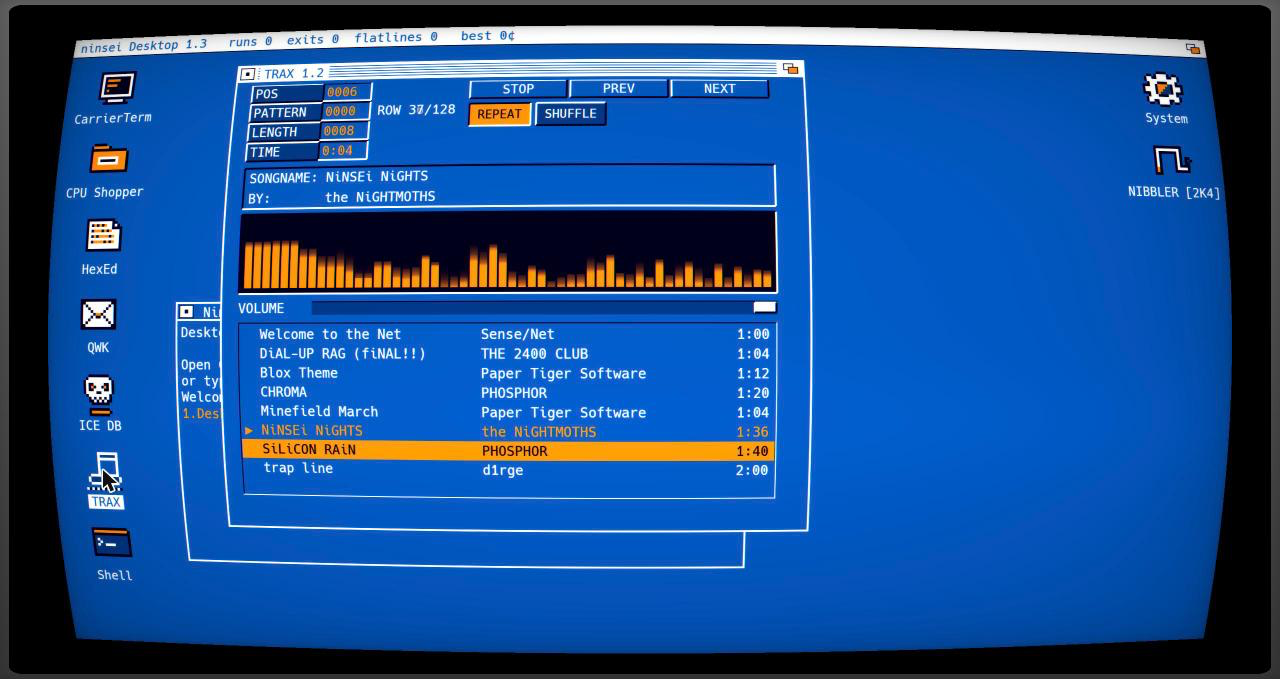
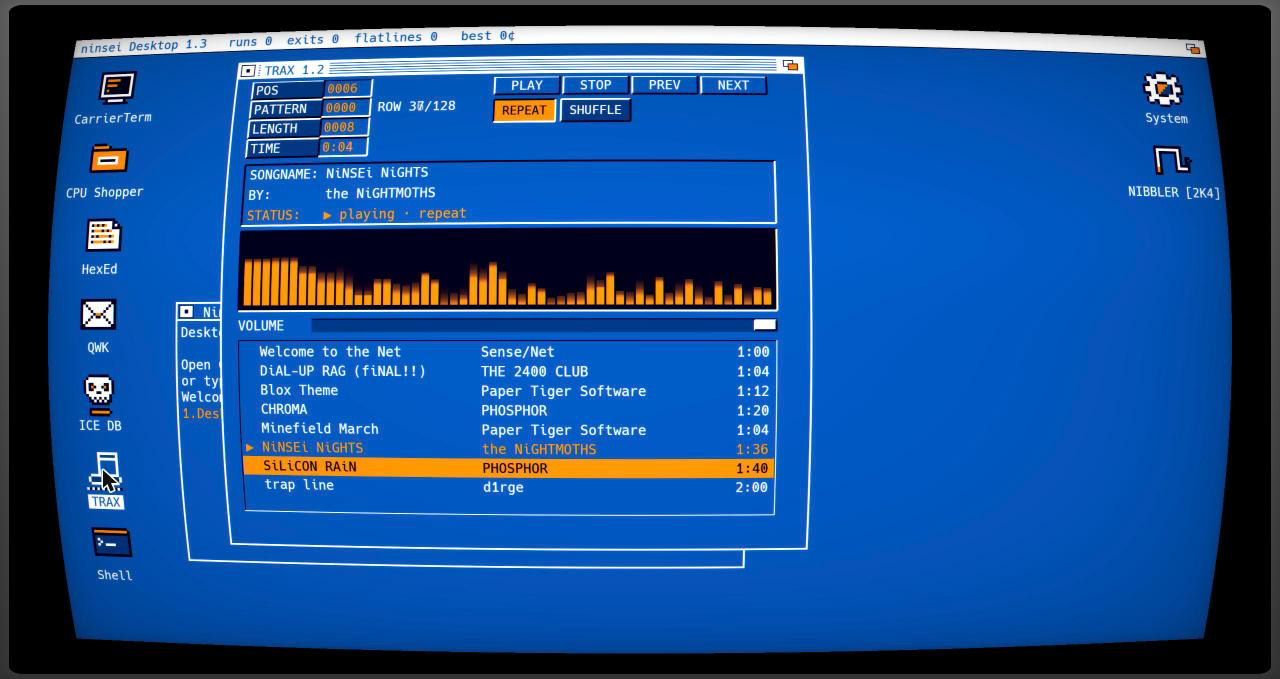
docs: Protracker's screen with STOP and STATUS, shots retaken

Changed region(s): [[0.1562, 0.0619, 0.6562, 0.8351]]

diff --git a/docs/architecture.md b/docs/architecture.md
@@ -62,7 +62,7 @@ Monitors and decks live in `data/hub/hardware.ron` (`HardwareDef::validate`); wh
 - **Games are data, and the save knows which copy you own.** Each game is a row in `data/hub/games.ron` (`data::GameDef`: name, blurb, publisher, version, a `cols`x`rows` field, a `crack` and a `splash` intro, an optional `shop` price, the `engine` it runs (`games::Engine`) and its `tick_ms`). `Data::validate` rejects a field smaller than its engine's `min_size` or past 78x24, a `tick_ms` outside `data::GAME_TICK_MS`, a `crack` that isn't a crack or a `splash` that isn't a splash, a publisher that isn't a CPU Shopper vendor, a splash whose tagline doesn't name the row's name and version, a board file naming an unknown game, and any `Drop::Game` in loot or an encounter: games only come from a board's files. Owned games are `Save::games`, one `hub::OwnedGame { id, copy }` per game and copy (`hub::GameCopy`): you can own both side by side, and neither erases the other. A `Cracked` copy comes from a board (`Drop::Game(id)`: in a run on `Game::games`, which starts from `Kit::games`, the save's cracks (`Save::cracks`), plus downloads, booked by `Save::record` even on a flatline and reported in `RunReport::games`; at home through `Save::home_buy`); a `Boxed` one by mail order (`shopper::Item::Game` in the Games section, sold by the publisher, `Save::buy_game`). `Save::learn_game` is idempotent per game and copy; `has_copy` and `copies` ask what you have. THE NEON GUTTER's GAMES area posts the three cracks (two a call, rolled like any area), each file named 8.3 with its crew's tag and only on the board its crack advertises (`Data::validate` rejects either mistake); CPU Shopper prints Paper Tiger's Box ad for BLOX 2.0 and a cover line, the other boxes as dot-leader lines. A board won't sell a crack you have (`game::tool_blocker`, which asks the `bbs::Line`: `Line::owns`, `has_crack`) and the shop won't sell a box you have, but each still sells its copy to someone holding the other. Each copy opens with its own intro and has its own label (`Data::game_label`): a box is the plain name (`Nibbler`), a crack the name in capitals with its crew's tag (`NIBBLER [2K4]`), the `tag` on its crack intro. About This Deck lists each copy you own by its label, after the tools. **The games are engines in core** (`crates/core/src/games/`): each is a pure, seeded state machine behind the `games::Arcade` trait (`step(Input, ticks)`, `cells()` row by row, `cursor`, `over`, `won`, `paused`, `score`, `status`), started by `games::new_game(def, seed, round)` from the row's `engine` (the game's id and the round go into the seed, `games::round_seed`, so each round deals a new field and no two games share a stream) (`Nibbler`, `Blox`, `Minefield`). The app only sends `games::Input`s and a count of the game's own `tick_ms` ticks and draw the `games::Cell`s; an engine never reads a clock, and the same seed and inputs always play the same game. Their speeds, points and mine density are in `tuning.rs` (`NIBBLER_*`, `BLOX_*`, `MINEFIELD_*`). Tested in `tests/games.rs`: every game ends, random input never panics or leaves the grid, same seed same game. The probe's bots value a game at nothing, so they never buy one. Tested in `crates/core/tests/games.rs`.
 - **Games open on every desktop.** A copy you own is a tool: `Tool::Game(id, copy)`, one variant for every game and copy, its id carried inline (`hub::GameId`, at most `hub::GAME_ID_MAX` bytes, saved as the plain id) so `Tool` stays `Copy`. Everything a desktop shows for it reads the row: `Tool::name` (the copy's label, `Data::game_label`), `Tool::game_def`, its icon (`icon` in `games.ron`, the 1.3 palette, checked by `IconDef::check_art`), and `Tool::games(data, save)` lists the copies you own in the order you came by them. `Save::icons` is the desktop's icons (`hub::Icon`, borrowing the art: the tools you have, then each copy); `Save::opens` is false for a copy you don't have, so an unowned game has no icon, menu item, launcher entry, tile or Shell word (`shell`'s `run`/`dir` and `shell_complete` read `Save::icons`; `run nibbler` finds a game by its box's name, the label picks the copy). Liza lists the copies in a **Games** menu before Special and as icons; Desktop's `Kind` is `Shell`, `Tool(tool)` or `Requester` (no fallback: a game's window is its own); AnarchyOS's launcher has an entry per copy. Liza's and Desktop's game windows open where `home::game_spot` puts each copy, sized the first time they're drawn (`home::size_game_window`) to the field, or to the intro's 80x24 screen when that's bigger and an intro will play (`home::game_window`). The window (`crates/app/src/games_view.rs`) draws the engine's `cells()` on the kit's `Cells`, a cell two text cells wide (one in a narrow room), in a frame with the game's status wrapped under it (`games_view::status_rows`); every cell reads by its shape (fills, the `p50` pattern, glyphs, inverse) so nothing is told by colour alone. A game lives as long as its window is open: before drawing, the app tells `Home::keep_open` which tools any desktop still has open (`Desktops::is_open`: Liza's and Desktop's windows, AnarchyOS's tiles on the save; hidden, on another workspace, behind another firmware or showing the fit notice is still open), and `Home::play` keeps the copy's window state until it closes: its intro first (the crack's cracktro or the box's splash, unless intros are off; only a key or click while its window has the keyboard skips it, and the game starts the next frame so the skipping key isn't the game's; run to its end, the game starts on that frame; closing the window while it still plays cuts its tune), then one `games_view::Session`, a new round when it opens or Space is pressed once it's over. Each sends `WbOut::GameStarted(id)` so `Save::start_game` bumps `Save::game_rounds`, and `games::new_game` gets the save's key and the round: the save's count or one past the last `Home` dealt, whichever is more, so both copies opened in one frame deal two fields. It ticks whole `tick_ms` ticks on the frames' `stable_dt`; it takes the arrows, Space and P only while its window has the keyboard (`Home::tool_in`'s `keys`: each desktop's front window or focused tile while no menu, leader, launcher or help is up, and never while `Cx::keys` is false, a board called from home owning the keyboard: then AnarchyOS's leader and launcher stand down too, System is `blocked` even under the pointer, and no tool's intro is skipped), stopping text input; a click opens a square and a right click flags it. Losing the keyboard pauses it, and getting it back plays on unless the player paused it. Tested in `games_view.rs`, `liza.rs`, `workbench.rs`, `tiling.rs` and `crates/core/tests/game_tools.rs`.
 - **Cracktros are data.** Each is `data/intros/<id>.ron` (`intro::IntroDef`, found by `build.rs`, checked by `IntroDef::validate`), named by a tool's `intro` or a game's `crack` and `splash`. A crack names its `board` and its `greetz`, and a game's crack its crew's `tag` (at most `intro::TAG_MAX` capitals or digits, one tag per crew); a splash has a `tagline`, greets nobody, carries no tag, and may leave the board out, in which case its screen has no ad row (`IntroDef::is_splash`); core turns time into the screen (`IntroDef::screen`: frames, `Fx` effects, the board's ad, the greetz scroller, timings in `intro::anim`), and `Home::intro_gate` paints it in the desk's colours every time the tool's window opens (a game's window plays its copy's, above), skippable, its type shrunk to the width and the height in view in a room smaller than the screen (`bbs_view::paint_screen_fit`), never cut, honouring `Save::intros` and `Save::glitches` (calm). Its chiptune is an `intro::TuneDef` (tracks of note steps, `TuneDef::render`, synthesized like cues); the speaker plays it on the music channel it shares with the run's tune (`Speaker::tune`), cut when the intro is skipped or its window closes (`Home::tune`, `TuneCue`). The speaker knows which of the two is on, so an intro closing as you jack in can't cut the run's tune, and the run ending can't cut an intro.
-- **Music disks and TRAX.** A tune is `data/music/<id>.ron` (`data::TuneFile`: a `title`, its author `by`, `secs` it plays in a playlist, and a cracktro-format `TuneDef`; found by `build.rs`, `Data::tunes`, `Data::tune`). `Data::validate` refuses a duplicate, a title past `TUNE_TITLE_MAX`, an author who signs no cracktro or splash (`Data::signs`: a group, or a name it joins with ` & `), a loop past `music::MAX_LOOP_SECS`, and a length shorter than one loop or past `TUNE_SECS_MAX`. You own tunes on `Save::tunes`, in playlist order: from a board (`Drop::Tune(id)`, `[MUS]` in a listing; in a run on `Game::tunes`, from `Kit::tunes`, booked by `Save::record` even on a flatline and reported in `RunReport::tunes`; at home through `Save::home_buy`), from a kit (`KitDef::tunes`, applied by `Save::ensure_phonebook`), or by mail (`shopper::Item::Compilation`, a `data::CompilationDef` in `data/hub/compilations.ron`, priced there, in the Games section, owned once all its tunes are; `Save::buy_compilation` adds what you lack and plays nothing). No loot or encounter drops a tune; the boards' music areas are `always`, so they never touch the RNG. The player's rules are core's `player.rs`: `playlist` and `order` (shuffled from the save's key), the saved `PlayerState` (`Save::player`: current, repeat, shuffle), the session's `Transport` (`Home::player`: playing, `at`, and a `cue` bumped on every jump), `apply(Act)` (toggle, play, pause, stop, next, prev, pick, seek in ms, louder and softer on `Save::volume`, repeat, shuffle), `tick` (moves on only while `live`: at home, `player::at_home`, no cracktro on the channel and no new tune still rendering, else the transport is `held` and the status says `‖ waiting`; it covers as many tunes as the time since the last frame does, since a hidden window sends no frames; at the end of the list without repeat it stops; it says whether the save changed), `wanted` (a `Want` at home while playing, nothing in a run) and what a face shows (`rows`, `status`, `volume`, `now`, `KEYS`), all tested in `tests/player.rs`. The tool is `Tool::Player` (`player` in `tools.ron`, **TRAX**, free in the Gutter's WAREZ TOOLS, a NiGHTMOTHS intro): on AnarchyOS `player_view::tile`, three boxes on the kit's cells (the playlist on `kit::List`, a spectrum from `vispane::bars` over `Speaker::listen`, filled into `Home::heard` only while the tile is on screen, and the status box with a seek bar and a clickable legend), its keys only while the tile has the keyboard (stopping text input), `Home::fit` 40x14 cells; the face is picked in one place, `player_view::show`, by the firmware's desktop (there is no plain fallback: each desktop has its own); on Liza `player_view::liza_face`, a fixed System 6 desk accessory (`LIZA_SIZE`, centred in its window) on the Liza kit: the tune and its crew, `kit::liza::hslider` for the position (`Act::Seek`), `push_button`s for the transport, `kit::liza::thermometer` for the level (`Act::Volume`), Repeat and Shuffle `check_box`es, the spectrum as 1-bit bars from the same `vispane::bars`, and the playlist in a `list_box` (a click moves the cursor, a double-click or Enter plays, ↑↓ move the cursor through the face's own keys); on Desktop `player_view::workbench_face`, Protracker 2.3's playback screen (`WB_SIZE`) on the Workbench kit: bevelled number boxes from core's `player::readout` (POS, the tune's place; PATTERN, the loop's pass, with the row beside it; LENGTH; TIME), `kit::workbench::button`s and `toggle_gadget`s, the song name strip, the spectrum analyzer from the same `vispane::bars`, the level on `kit::workbench::hprop`, and the playlist in `kit::workbench::list_box`. Its acts go out as `WbOut::Player` and `App::player_act` applies them.
+- **Music disks and TRAX.** A tune is `data/music/<id>.ron` (`data::TuneFile`: a `title`, its author `by`, `secs` it plays in a playlist, and a cracktro-format `TuneDef`; found by `build.rs`, `Data::tunes`, `Data::tune`). `Data::validate` refuses a duplicate, a title past `TUNE_TITLE_MAX`, an author who signs no cracktro or splash (`Data::signs`: a group, or a name it joins with ` & `), a loop past `music::MAX_LOOP_SECS`, and a length shorter than one loop or past `TUNE_SECS_MAX`. You own tunes on `Save::tunes`, in playlist order: from a board (`Drop::Tune(id)`, `[MUS]` in a listing; in a run on `Game::tunes`, from `Kit::tunes`, booked by `Save::record` even on a flatline and reported in `RunReport::tunes`; at home through `Save::home_buy`), from a kit (`KitDef::tunes`, applied by `Save::ensure_phonebook`), or by mail (`shopper::Item::Compilation`, a `data::CompilationDef` in `data/hub/compilations.ron`, priced there, in the Games section, owned once all its tunes are; `Save::buy_compilation` adds what you lack and plays nothing). No loot or encounter drops a tune; the boards' music areas are `always`, so they never touch the RNG. The player's rules are core's `player.rs`: `playlist` and `order` (shuffled from the save's key), the saved `PlayerState` (`Save::player`: current, repeat, shuffle), the session's `Transport` (`Home::player`: playing, `at`, and a `cue` bumped on every jump), `apply(Act)` (toggle, play, pause, stop, next, prev, pick, seek in ms, louder and softer on `Save::volume`, repeat, shuffle), `tick` (moves on only while `live`: at home, `player::at_home`, no cracktro on the channel and no new tune still rendering, else the transport is `held` and the status says `‖ waiting`; it covers as many tunes as the time since the last frame does, since a hidden window sends no frames; at the end of the list without repeat it stops; it says whether the save changed), `wanted` (a `Want` at home while playing, nothing in a run) and what a face shows (`rows`, `status`, `volume`, `now`, `KEYS`), all tested in `tests/player.rs`. The tool is `Tool::Player` (`player` in `tools.ron`, **TRAX**, free in the Gutter's WAREZ TOOLS, a NiGHTMOTHS intro): on AnarchyOS `player_view::tile`, three boxes on the kit's cells (the playlist on `kit::List`, a spectrum from `vispane::bars` over `Speaker::listen`, filled into `Home::heard` only while the tile is on screen, and the status box with a seek bar and a clickable legend), its keys only while the tile has the keyboard (stopping text input), `Home::fit` 40x14 cells; the face is picked in one place, `player_view::show`, by the firmware's desktop (there is no plain fallback: each desktop has its own); on Liza `player_view::liza_face`, a fixed System 6 desk accessory (`LIZA_SIZE`, centred in its window) on the Liza kit: the tune and its crew, `kit::liza::hslider` for the position (`Act::Seek`), `push_button`s for the transport, `kit::liza::thermometer` for the level (`Act::Volume`), Repeat and Shuffle `check_box`es, the spectrum as 1-bit bars from the same `vispane::bars`, and the playlist in a `list_box` (a click moves the cursor, a double-click or Enter plays, ↑↓ move the cursor through the face's own keys); on Desktop `player_view::workbench_face`, Protracker 2.3's playback screen (`WB_SIZE`) on the Workbench kit: bevelled number boxes from core's `player::readout` (POS, the tune's place; PATTERN, the loop's pass, with the row beside it; LENGTH; TIME), `kit::workbench::button`s (PLAY, STOP, PREV, NEXT, their ids by slot) and `toggle_gadget`s, the song name strip with core's `player::status` as its STATUS line, the spectrum analyzer from the same `vispane::bars`, the level on `kit::workbench::hprop`, and the playlist in `kit::workbench::list_box`. Its acts go out as `WbOut::Player` and `App::player_act` applies them.
 - **Stacks are data.** HyperCard-style stacks (`crates/core/src/cards.rs`) are cards of text and 1-bit pictures; **Welcome to the Net** is `data/stacks/welcome.ron` (`Data::welcome`, checked by `StackDef::validate`: lines fit `cards::TEXT_COLS`x`TEXT_ROWS`, pictures exist). Card text never hard-codes a number the rules own: it uses `{placeholders}` (`cards::PLACEHOLDERS`, filled by `cards::fill` from `tuning` and data). It's `Tool::Guide`: an icon on Liza, opened on a new save's first boot (`Save::guide_seen`), and `help net` in the Shell on any desktop; `hubtools::guide` draws it.
 
 ## The shop and the books

diff --git a/docs/design.md b/docs/design.md
@@ -40,7 +40,7 @@ deck ─> firmware ─────┘
 | fights | the ICE card (the ICE, its hotbar, End Turn) in the centre, and the deck's program as a stack of blocks with Step, Run, Pause in the Script pane beside it ✅ (see *Fights*) | the map dives into the node: the ICE as a wireframe over a horizon grid, a program hotbar with previews ✅, and the deck's program in the `ice.bas` tile beside it, debugged from its keys and the terminal ✅ (see *Fights*) | an incident report with a strength chart and an agenda ✅, and the deck's program as `PROC-7.BAS`, a Turbo Debugger Module window with Watches, its F-keys on the legend while it's active ✅ (see *Fights*) |
 | damage | 1-bit glitches: tearing and noise, never an RGB split ✅ (pattern smears and inverted rows: an idea) | screen glitches: tearing, RGB split, corrupted text ✅ | the same, plus corporate error dialogs (idea below) |
 | add-ons | Alarm Clock, a Calculator desk accessory under the eye, a desktop pattern, MultiFinder ✅ |  |  |
-| music player | **TRAX** as a System 6 desk accessory with Winamp 2's transport: the tune in bold and its crew, a horizontal scroll bar for the position (click or drag to seek), round ◀◀ ▶ ■ ▶▶ buttons (▶ reads ‖ while it plays), a volume thermometer, Repeat and Shuffle check boxes, the spectrum as 1-bit bars in a sunken box, and the playlist in a list box ✅ | **TRAX**, a tile after cmus 2.x with Winamp 2's feel: the playlist (the cursor in inverse, the playing tune lit with ▶), a spectrum in cell columns along the gradient, and a status box (`▶ playing · repeat`, cmus's `artist - title`, a position bar to click, the level and the keys cut into its edge) ✅ | **TRAX** as Protracker 2.3's playback screen in a Workbench window: POS, PATTERN, LENGTH and TIME in bevelled number boxes (and the loop's row beside PATTERN), PLAY (STOP while it plays), PREV and NEXT, REPEAT and SHUFFLE toggle gadgets, the song name and its crew, Protracker's spectrum analyzer, the volume on a proportional gadget, and the playlist as a list with its gadget ✅ |
+| music player | **TRAX** as a System 6 desk accessory with Winamp 2's transport: the tune in bold and its crew, a horizontal scroll bar for the position (click or drag to seek), round ◀◀ ▶ ■ ▶▶ buttons (▶ reads ‖ while it plays), a volume thermometer, Repeat and Shuffle check boxes, the spectrum as 1-bit bars in a sunken box, and the playlist in a list box ✅ | **TRAX**, a tile after cmus 2.x with Winamp 2's feel: the playlist (the cursor in inverse, the playing tune lit with ▶), a spectrum in cell columns along the gradient, and a status box (`▶ playing · repeat`, cmus's `artist - title`, a position bar to click, the level and the keys cut into its edge) ✅ | **TRAX** as Protracker 2.3's playback screen in a Workbench window: POS, PATTERN, LENGTH and TIME in bevelled number boxes (and the loop's row beside PATTERN), PLAY (again to pause), STOP, PREV and NEXT, REPEAT and SHUFFLE toggle gadgets, the song name, its crew and a STATUS line, Protracker's spectrum analyzer, the volume on a proportional gadget, and the playlist as a list with its gadget ✅ |
 | games | a window like any program's, titled by the copy's label (`Nibbler`, `NIBBLER [2K4]`), in Liza's two colours: the field in its frame, walls and covered squares in the 50% gray pattern, blocks outlined; a **Games** menu before Special lists each copy you own ✅ | a tile, labelled in lower case like the others (`blox [phs]`), from the launcher or `run blox`; the leader's keys stay the desktop's ✅ | a window titled with its version (`Minefield 1.1`), its icon among the others ✅ |
 
 
